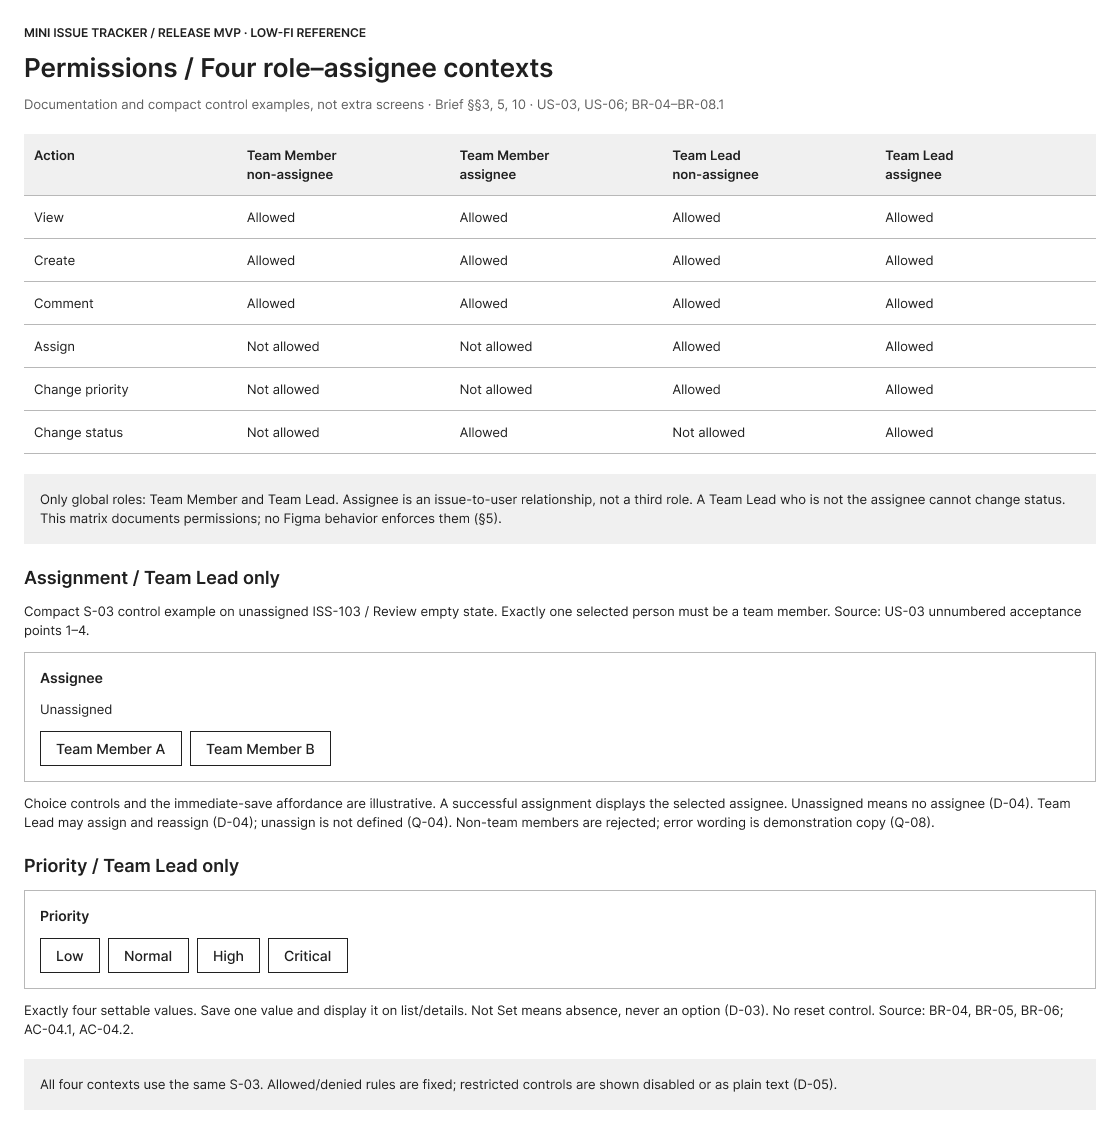
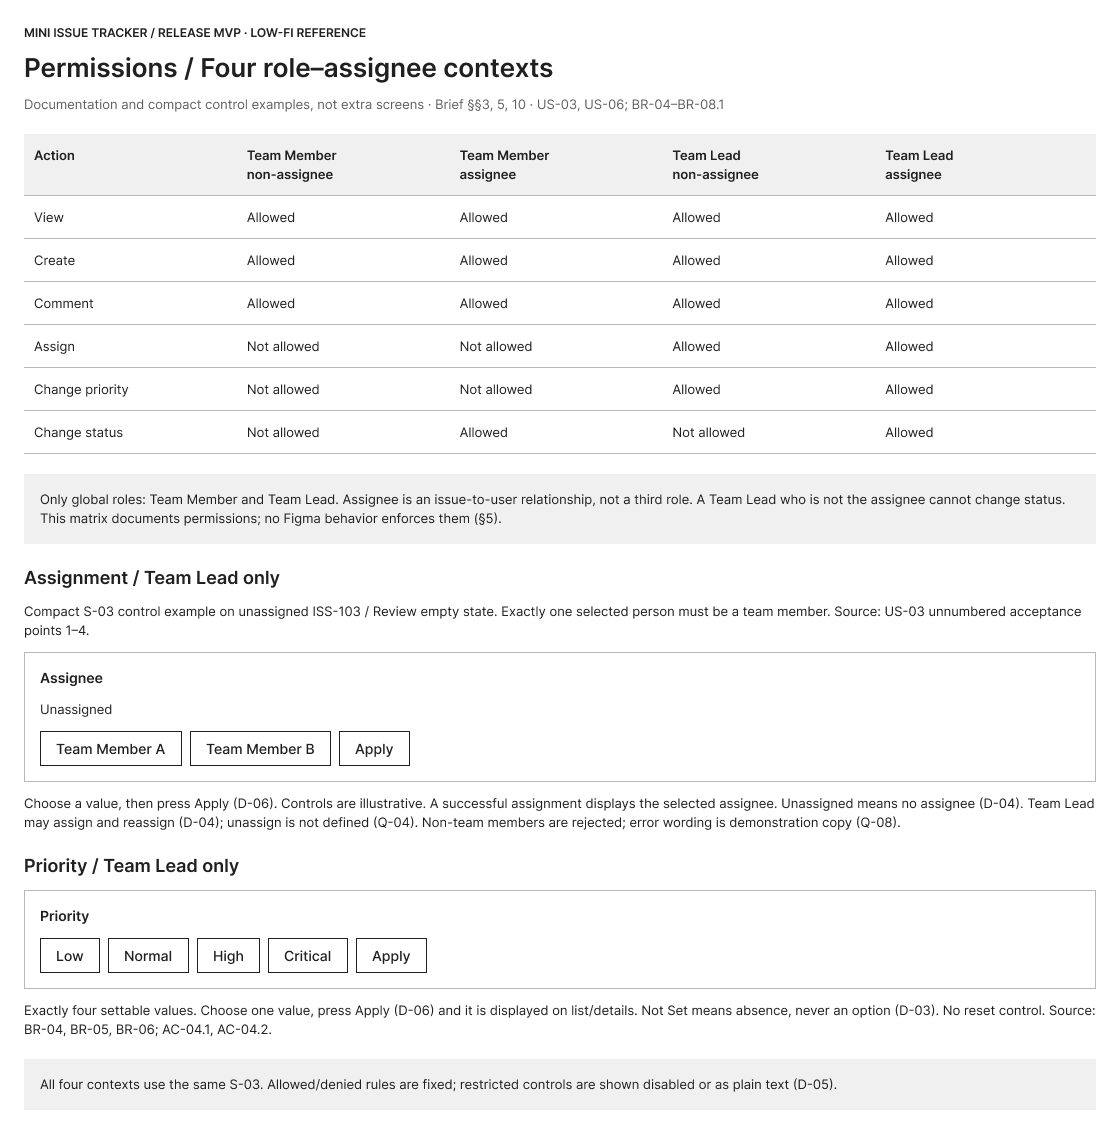
design: add Apply controls per D-06 in permissions reference, close DEF-25; sync review report, brief v1.1, D-08 note

Changed region(s): [[0.0312, 0.6481, 0.8438, 0.7407], [0.0312, 0.8333, 0.9688, 0.9259], [0.8438, 0.679, 0.9375, 0.7099]]

diff --git a/05_qa/Defect_Change_Log.md b/05_qa/Defect_Change_Log.md
@@ -87,7 +87,7 @@
 | **DEF-22** | Примітка в M-01/Transition intent каже, що Cancel не додано, хоча кнопку намальовано | Тексти `3:5903`, `3:5405`, `3:5966` оновлено: Cancel і клік по фону закривають M-01 без створення (D-09) | `FIXED` |
 | **DEF-23** | Reference-кадри (4 рольові контексти, validation, коментар успішний/невдалий, результат створення) не експортовано | Експортовано: `REF_permissions_4_contexts.png`, `REF_status_transitions.png`, `REF_empty_error_cases.png`, `REF_important_fixtures.png`, `REF_successful_creation_result.png`, `S-03_new_issue_after_create.png`, `S-03_lead_non_assignee.png`; перезаписано `S-02-A`, `S-02-B`, `S-02-C`, `M-01`, `S-03` | `CLOSED` |
 | **DEF-24** | Викладач не знайшла переходів між екранами в макеті | Переходи в файлі є (flow «Issues flow», старт S-02-A). Файл перейменовано з «Untitled» на «Mini Issue Tracker UX-UI»; доступ «Anyone with the link can view» уже був. Скопійовано посилання на прототип і перевірено без входу в акаунт: відкривається S-02-A із шістьма рядками. Посилання додано в README | `CLOSED` |
-| **DEF-25** | Decision Log D-06 вимагає `Apply` біля контролів assignee/priority; у макеті (`REF_permissions_4_contexts.png`) вибір значення показано кнопками з негайним збереженням (анотація: «immediate-save affordance is illustrative»), кнопок `Apply` немає | Відхилення макета від D-06 зафіксовано як обмеження low-fi макета: вибір значень показано, підтвердження `Apply` не намальовано; поведінка зміни статусу (клік по допустимому переходу) відповідає D-06. Макет не змінювався. Потрібне рішення команди: додати `Apply` у макет або змінити формулювання D-06 | `MITIGATED` (обмеження макета) |
+| **DEF-25** | Decision Log D-06 вимагає `Apply` біля контролів assignee/priority; у макеті `REF_permissions_4_contexts.png` вибір значення був показаний кнопками з негайним збереженням, `Apply` не було | **FIXED у Figma (24.11.2026):** у блоки `Assignment control example` і `Priority control example` додано кнопки `Apply`; анотації переписано: «Choose a value, then press Apply (D-06)»; переекспортовано `REF_permissions_4_contexts.png`. Зміна статусу кліком по переході лишається за D-06. Рівень доказу: макет (reference-кадр), без прототипного маршруту | `CLOSED` |
 
 ---
 
@@ -95,5 +95,5 @@
 - **G4 (DEF-01…09):** 9 виявлено, 9 виправлено; докази прив'язано до `03_Screen_Contracts.md`.
 - **G6 / P1 (DEF-10…16, UX-01…05):** DEF-10, DEF-11, DEF-13 виправлено у Figma і підтверджено в Present (24.11.2026); UX-01, UX-05 виправлено; DEF-12, DEF-15, DEF-16, UX-02, UX-04 закриті; DEF-14 — `MITIGATED`: задокументоване обмеження прототипу (D-07), не виправлена цільова поведінка.
 - **Після ревью (DEF-17…24):** усі закриті.
-- **Відкрите:** лише DEF-14 і DEF-25 (`MITIGATED`: обмеження прототипу та відхилення макета від D-06 щодо `Apply`). D-09 і D-10 затверджено командою 2026-11-24.
+- **Відкрите:** лише DEF-14 (`MITIGATED`, обмеження прототипу). DEF-25 (`Apply` за D-06) закрито 24.11.2026. D-09 і D-10 затверджено командою 2026-11-24.
 - **Примітка про виконавців.** Правки у Figma і документах внесено командою. Відповідальні: Салтикова Юлія (Figma), Вдовенко Олег (документи й тести), Ходус Данило (прототип і тести), Бєлікова Марина (UX-рішення D-09, D-10), Кузнецов Герман (Decision Log, README, коміти).

diff --git a/README.md b/README.md
@@ -36,7 +36,7 @@
 | :--- | :--- | :--- |
 | **Вдовенко Олег** | Аналітик вимог / QA Tester | Відбір вимог, формування Input Pack (G1), контроль джерел (Контроль A), ручне тестування прототипу (T-01..T-10), мінітест з одногрупником |
 | **Бєлікова Марина** | UX-архітектор | Структура поверхонь і станів Screen Map (G2), специфікація Developer-Verifiable Screen Contracts, матриці прав та переходів статусів (G3) |
-| **Кузнецов Герман** | Team Lead / Prompt Engineer | Ведення Decision Log (D-01..D-08), критичний аудит плану G4 (Контроль B), підготовка брифу для Figma Brief v1.0 (G5, Контроль C) |
+| **Кузнецов Герман** | Team Lead / Prompt Engineer | Ведення Decision Log (D-01..D-10), критичний аудит плану G4 (Контроль B), підготовка брифу для Figma Brief v1.0 (G5, Контроль C) |
 | **Салтикова Юлія** | Figma Designer | Запуск генерації у Figma Agent (F1), збереження бекапу `.fig`, ручна корекція шарів, Auto Layout та компонентів (F2), усунення візуальних дефектів |
 | **Ходус Данило** | Prototyping Lead / QA Auditor | Зв'язування переходів прототипу (P1), експорт скріншотів екранів, візуальний аудит макетів через ChatGPT Free (G6), фіксація Контролю D |
 
@@ -61,7 +61,7 @@
 mini-issue-tracker-ux-ui/
 ├── 01_requirements/
 │   ├── 01_Input_Pack_v1.0.md      # Повний зріз вимог (8 US, 33 AC, BR, NFR, Q-ID, Контроль A)
-│   └── Decision_Log.md            # Затверджені проєктні рішення людини D-01..D-08 (APPROVED)
+│   └── Decision_Log.md            # Затверджені проєктні рішення D-01..D-10 (APPROVED; D-09 і D-10 додано 24.11.2026)
 ├── 02_architecture/
 │   ├── 02_Screen_Map.md           # Система екранів та станів (S-01, S-02-A/B/C, M-01, S-03)
 │   └── 03_Screen_Contracts.md     # Контракти для розробника, матриці ролей і статусів, Traceability
@@ -74,7 +74,7 @@ mini-issue-tracker-ux-ui/
 │   └── screenshots/               # Експорти кадрів Figma: S-01, S-02-A/B/C, M-01, S-03, S-03 нової issue, reference-кадри REF_*
 └── 05_qa/
     ├── AI_Interaction_Log.md      # Журнал взаємодії з ChatGPT Free та Figma Agent (Додаток B2)
-    ├── Defect_Change_Log.md       # Журнал дефектів DEF-01..25 та UX-01..05; усі дефекти усунені або задокументовані, DEF-14 і DEF-25 мають статус MITIGATED (обмеження прототипу/макета)
+    ├── Defect_Change_Log.md       # Журнал дефектів DEF-01..25 та UX-01..05; усі дефекти усунені або задокументовані, DEF-14 має статус MITIGATED (обмеження прототипу)
     └── Test_Cases_T01_T10.md      # Протокол тестів T-01..T-10: PASS / PARTIAL / FAIL / NOT RUN за наявними доказами
 ```
 

diff --git a/01_requirements/Decision_Log.md b/01_requirements/Decision_Log.md
@@ -22,7 +22,7 @@
 | **D-05**<br>`APPROVED` | **Візуалізація недоступних контролів:** Заборонені для поточної ролі елементи керування (наприклад, зміна priority чи assignee для Team Member) показувати у стані `disabled` або як неінтерактивний текст, а не приховувати. | Source: BR-01, BR-06, BR-08, AC-07.4; §6.<br>**Погодила:** Салтикова Юлія (Figma Designer)<br>**Дата:** 2026-10-22 | `03_Screen_Contracts.md` (Permission matrix), REF-01 |
 | **D-06**<br>`APPROVED` | **Модель збереження змін на екрані деталей:** Для зміни assignee, priority та status користувач обирає значення і натискає `Apply` біля відповідного блоку (або клікає допустимий перехід статусу). Успішна зміна залишає користувача на екрані `S-03`. | Source: методичні пропозиції §6, §8.<br>**Погодила:** Бєлікова Марина (UX-архітектор)<br>**Дата:** 2026-10-22 | `02_Screen_Map.md`, `03_Screen_Contracts.md` (§5) |
 | **D-07**<br>`APPROVED` | **Збереження навігаційного контексту:** Кнопка `Return to Issues List` на `S-03` має повертати користувача на той стан списку, з якого він перейшов (`All Issues` або `Important Issues`). У межах низькобюджетного прототипу Starter допускається повернення на S-02-A як базову реалізацію. | Source: методичні пропозиції §6, §17.<br>**Погодив:** Ходус Данило (Prototyping Lead)<br>**Дата:** 2026-10-22 | `02_Screen_Map.md`, `05_Figma_Brief_v1.0.md` |
-| **D-08**<br>`APPROVED` | **Межі симуляції та тестові дані:** Макет використовує фіктивні демонстраційні дані (фікстури ISS-101..ISS-105), а прототип — наперед задані переходи без справжньої БД, бекенду чи сесій. Усі висновки аудиту позначаються з урахуванням цих меж. | Source: методичні рекомендації §6, §17, §20.<br>**Погодив:** Кузнецов Герман (QA Lead)<br>**Дата:** 2026-10-22 | `04_Review_Report.md`, `Test_Cases_T01_T10.md` |
+| **D-08**<br>`APPROVED` | **Межі симуляції та тестові дані:** Макет використовує фіктивні демонстраційні дані (фікстури ISS-101..ISS-105; після рішень D-09/D-10 і правок 24.11.2026 набір розширено: ISS-106 — нова issue після Create, ISS-107 — Critical + Open), а прототип — наперед задані переходи без справжньої БД, бекенду чи сесій. Усі висновки аудиту позначаються з урахуванням цих меж. | Source: методичні рекомендації §6, §17, §20.<br>**Погодив:** Кузнецов Герман (QA Lead)<br>**Дата:** 2026-10-22 | `04_Review_Report.md`, `Test_Cases_T01_T10.md` |
 
 ---
 

diff --git a/04_design/06_Review_Report.md b/04_design/06_Review_Report.md
@@ -47,6 +47,7 @@
 | UX-03 / DEF-12 | дефект | закрито | прототип | `Cancel` і клік по фону закривають M-01 (D-09) |
 | UX-04 | зауваження | ACCEPTED (частково) | документи + макет | у Screen Map і Contracts (DP-05) розрізнено «немає issue взагалі» (All) і «немає важливих issue» (Important). У Figma є кадр S-02-C (порожній All) і випадок 02 у `REF_empty_error_cases.png` (порожній Important, той самий S-02-C); текст повідомлення в макеті не намальовано, рекомендовані тексти демонстраційні (Q-08) |
 | UX-05 | дефект | закрито | макет | підпис `Add Comment` |
+| D-06 | NV | PASS | макет | `REF_permissions_4_contexts.png`: біля assignee і priority намальовано `Apply` (DEF-25 закрито); зміна статусу кліком по допустимому переході відповідає D-06 |
 
 ### Не змінилося
 
@@ -54,15 +55,14 @@
 | :--- | :--- | :--- |
 | AC-06.2, AC-06.4 | PARTIAL | збереження comment і формат дати — реалізація (Q-09 відкрито) |
 | AC-07.3 | NV | збереження статусу — реалізація |
-| D-06 | NV → PARTIAL | За `REF_permissions_4_contexts.png`: вибір assignee/priority показано кнопками з негайним збереженням, `Apply` не намальовано; зміна статусу кліком по переходу відповідає D-06. Відхилення — DEF-25 (`MITIGATED`) |
 | UX-02 | ACCEPTED | кнопки переходів статусу; підпис «Change status to…» — необов'язкове покращення |
 
 ### Підсумок повторної перевірки (45 перевірених пунктів частини A)
 
 | Результат | 23.10.2026 | 24.11.2026 |
 | :--- | :--- | :--- |
-| PASS | 18 | 40 |
-| PARTIAL | 15 | 4 |
+| PASS | 18 | 41 |
+| PARTIAL | 15 | 3 |
 | NOT VERIFIABLE | 11 | 1 |
 | FAIL | 1 | 0 |
 
@@ -254,4 +254,4 @@
 2. Оновлено `03_figma_prep/05_Figma_Brief_v1.0.md` на офіційний затверджений бриф v1.0 згідно з Додатком A.
 3. Проведено та задокументовано 10 ручних тестів T-01..T-10 у `05_qa/Test_Cases_T01_T10.md`, включаючи мінітест з одногрупником.
 4. Після ревью викладача реєстр `05_qa/Defect_Change_Log.md` оновлено: DEF-10, DEF-11, DEF-13, UX-01, UX-05 виправлено у Figma (24.11.2026) і підтверджено в Present; додано DEF-17…24, усі закриті, включно з DEF-24 (посилання на прототип).
-5. Усунено суперечності в `05_qa/AI_Interaction_Log.md` щодо назви інструмента аудиту (ChatGPT Free / GPT-4o) та статусу проходження тестів.
+

diff --git a/03_figma_prep/05_Figma_Brief_v1.0.md b/03_figma_prep/05_Figma_Brief_v1.0.md
@@ -1,7 +1,7 @@
-# Mini Issue Tracker — approved low-fidelity design brief v1.0
+# Mini Issue Tracker — approved low-fidelity design brief v1.1 (updated 2026-11-24; v1.0 approved 2026-10-22)
 
-**Status:** APPROVED (Consolidated implementation contract based on S1 requirements and approved human decisions D-01–D-08).  
-**Source Baseline:** `SD_Spec.docx` (§1–§8), `01_Input_Pack_v1.0.md`, `Decision_Log.md` (Approved 2026-10-22).  
+**Status:** APPROVED (Consolidated implementation contract based on S1 requirements and approved human decisions D-01–D-10; D-09 and D-10 added 2026-11-24).  
+**Source Baseline:** `SD_Spec.docx` (§1–§8), `01_Input_Pack_v1.0.md`, `Decision_Log.md` (D-01–D-08 approved 2026-10-22; D-09, D-10 approved 2026-11-24).  
 **Target Environment:** Figma Design (Starter Plan, Figma Agent launcher, editable native layers).  
 
 ---
